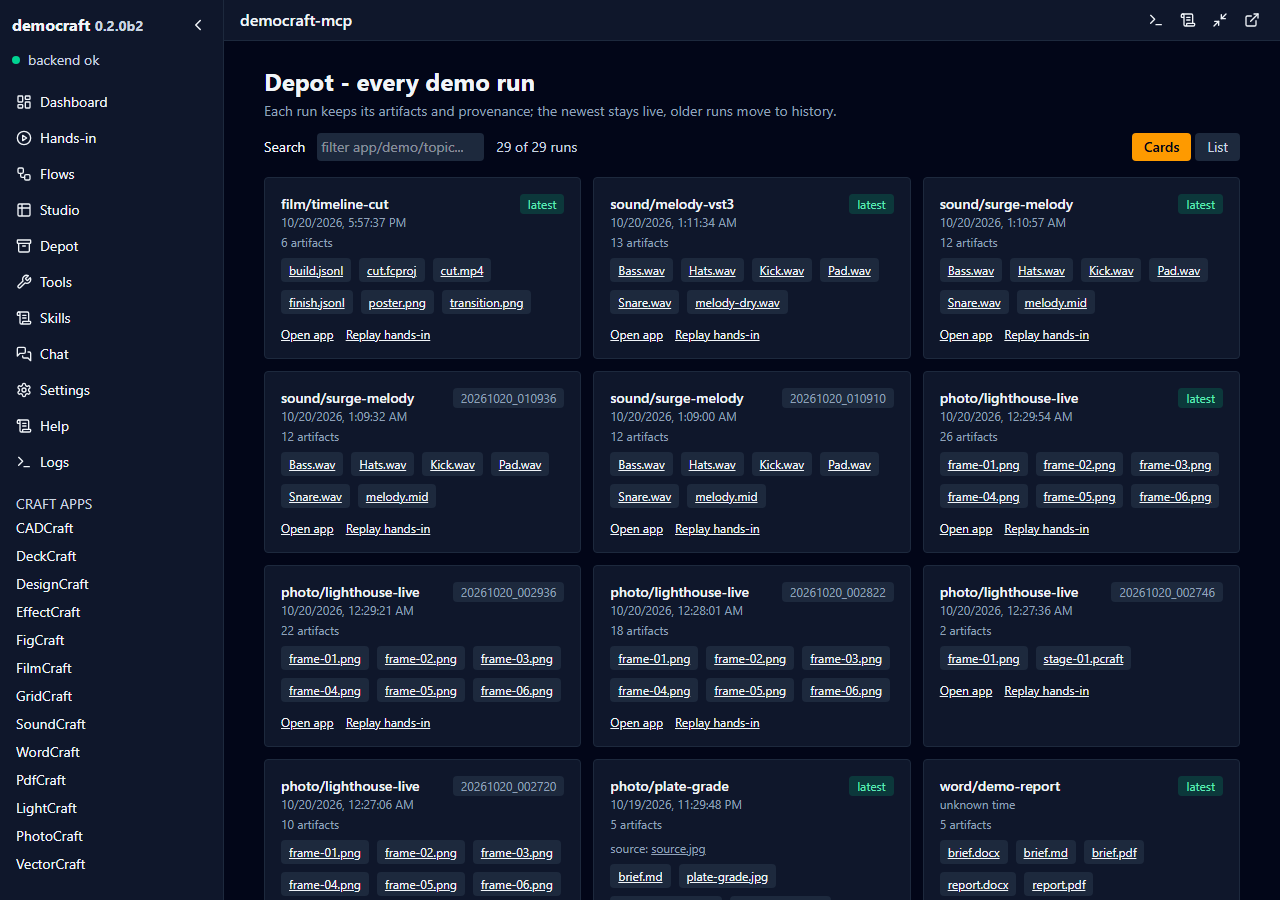
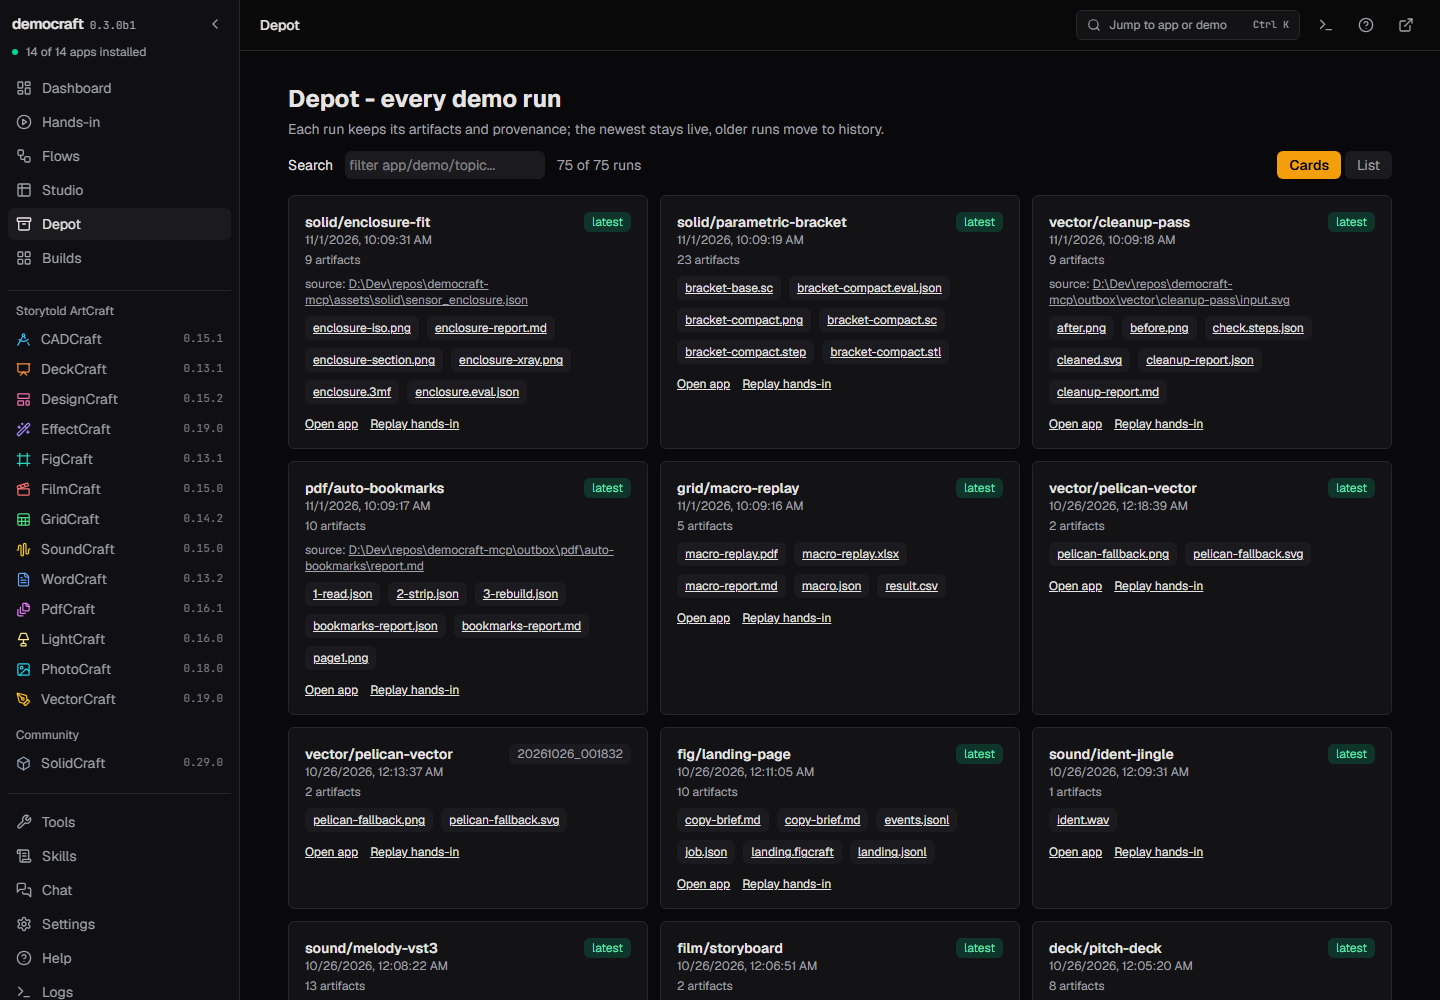
docs: handover for 0.3.0b1 and regenerated webapp screenshots
Claude-Session: https://claude.ai/code/session_018dTunojiqGZNZrvfoMExK2

Changed region(s): [[0.125, 0.0, 1.0, 1.0], [0.0, 0.0, 0.125, 1.0], [0.875, 0.1244, 0.9688, 0.2489]]

diff --git a/HANDOVER.md b/HANDOVER.md
@@ -1,89 +1,66 @@
-# HANDOVER — democraft-mcp
+# HANDOVER - democraft-mcp
 
-**As of:** 2026-10-21. **Version:** 0.2.0b2.
-**Assess score:** 91 self-assessed; cold rescore still preferred.
+**As of:** 2026-11-01. **Version:** 0.3.0b1.
+**Assess score:** not re-scored this session; the 91 from 2026-10-21 was self-assessed.
 
 ## What this repo is
 
-The demo fleet for the ArtCraft family: one page per Craft app, every demo a
-real headless `<app>-cli.exe` run plus an optional local-LLM step. Thirteen
-apps, one registry (`src/democraft_mcp/crafts.py`), one portmanteau MCP tool
-(`craft`, 8 ops), one webapp. 32 demos, 6 of them streamable ("hands-in"),
-12 multi-app flows.
+The demo bench for the Craft family: one page per app, every demo a real headless
+`<app>-cli.exe` run plus an optional local-LLM step. 14 apps: 13 Storytold ArtCraft (`core`)
+plus SolidCraft by Tangency Labs (`community`, first of more to come). One registry
+(`src/democraft_mcp/crafts.py`), demos since 2026-11-01 in `recipes.py`, one portmanteau MCP
+tool (`craft`), one webapp. 30 demos (8 streamable) plus a capability map per app, 12 flows.
 
-Ports: **11245** frontend, **11246** backend (registered in `WEBAPP_PORTS.md`).
-Gates: `just ci` (ruff check + format, pytest with coverage,
-tsc, biome, vite build). Last measured: 73 tests, 61.67% coverage, README
-structure check strict pass.
+Ports: **11245** frontend, **11246** backend. Gates: `just ci`.
 
-## Last concrete action
+## Last concrete action (2026-11-01)
 
-2026-10-21:
-1. **ArtCraft October 21 release drift resolved (wave 1 & 2)**: All 13 installed binaries
-   bumped in `C:\Program Files` across two waves (CADCraft 0.10.0, DeckCraft 0.9.0, DesignCraft 0.11.0,
-   EffectCraft 0.14.0, FigCraft 0.9.0, FilmCraft 0.10.0, GridCraft 0.10.0, LightCraft 0.11.0,
-   PdfCraft 0.10.1, PhotoCraft 0.12.0, SoundCraft 0.11.0, VectorCraft 0.14.0, WordCraft 0.9.0).
-   Tripwire drift tested, accepted with `force=True`, and baseline state locked in `data/craft_compat.json`.
-2. **Upstream tracking synchronization**: all 14 clones in `_upstream/` fetched and
-   fast-forwarded to `upstream/main`.
-3. **Docs update**: `docs/WRAPPEE.md` and all 13 per-app pages in `docs/apps/` updated with verified
-   latest builds, documented new verbs, and patched gaps.
-
-2026-10-20, two pieces of work:
-
-1. **FilmCraft NLE demo** (`film/timeline-cut`): real cut, cross dissolve,
-   H.264 export, two rendered frames; the two film flows now point at it.
-   Fixed while verifying: the dissolve was applied inside the export process
-   without `--save`, so `cut.fcproj` and the later `transition.png` had no
-   transition. It is now a real `exec --save` step, with regression test
-   `test_film_timeline_cut_persists_transition`.
-2. **Docs pass**: README rebuilt to the fleet wrapper/webapp structure,
-   INSTALL rewritten with Options A/A2/B/C/D, new `docs/WRAPPEE.md`,
-   `docs/apps/` (13 per-app pages + index), `docs/screenshots/README.md`,
-   real Playwright captures (dashboard, hands-in, depot), 16 GitHub topics and
-   a new repo description. `effect-still.png` (614 KB) replaced by a 63 KB
-   JPEG. `docs/TOOLS.md` corrected from 14 to 13 apps.
+1. **Oct 31 builds.** All 13 core CLIs bumped; drift additive only (104 verbs). Every existing
+   demo re-run green on the new builds, baselines accepted for all 14 apps
+   (`data/craft_compat.json`, gitignored).
+2. **`_upstream/` refreshed** to 2026-11-01 for the 15 Craft clones. Most trees had local
+   modifications (EffectCraft 30 files, LightCraft 42); each was stashed as
+   `democraft-refresh-2026-11-01 local changes before ff` before fast-forwarding. Inspect with
+   `git -C D:\Dev\repos\_upstream\<app> stash show -p stash@{0}`. Non-Craft clones (buzz, immich,
+   gods-eye-view, photoprism, Strata, VoiceStudio, token-factory-cookbook) were fetched only.
+3. **SolidCraft** registered (`family="community"`, `maker`); `/api/crafts` carries both.
+4. **Recipes** (`recipes.py`, dispatched in `run_demo` before the legacy chain via
+   `RECIPES[(app, demo)]` and a `RunCtx` with `do_with(exe, argv)` for cross-app steps):
+   grid/macro-replay, pdf/auto-bookmarks, vector/cleanup-pass, solid/parametric-bracket,
+   solid/enclosure-fit. Each writes a `*-report.md` with measured numbers.
+5. **Webapp redesign**: contact-sheet dashboard (`GET /api/gallery`), family grouping, inline
+   last-run outputs, Ctrl+K palette, bench tokens in `index.css`, `lib/appMeta.ts` (hue/icon per
+   app), `components/ContactSheet.tsx`, `components/ArtifactGrid.tsx`. Companion button removed
+   (it opened nothing). Biome now parses Tailwind directives (`biome.json`).
 
 ## Next step
 
-Phase 1 of `docs/PLAN.md`: harden the adapter contract. The demos work; the
-adapter is still a registry of special cases. Extract a typed adapter
-(detect / version / commands / run / script / error taxonomy) and make each app
-declare capability, not code.
+1. EffectCraft camera track to Blender: chain works, solve does not (see `docs/apps/effect.md`).
+   Retry with filmed footage or a textured SolidCraft render (appearances exist).
+2. Phase 1 of `docs/PLAN.md` continues: port legacy branches of `run_demo` into `recipes.py`
+   one app at a time; the recipe pattern is the typed-adapter seam.
+3. Regenerate README screenshots after UI changes: start the app, then
+   `node web_sota/scripts/shots.mjs docs/screenshots` (Node, not Bun: Playwright hangs under
+   Bun on Windows).
 
 ## Blockers / open items
 
-- **Streaming chat endpoint** (`POST /api/chat/stream`) — MEDIUM, open.
-- **Vendored MCPB pack script** — MEDIUM, open (manifest relocation + 3-4-100
-  prompt parity before the shim migration).
-- **`needs_account` is taxonomy only** — no engine currently gates a feature
-  through it; `crafts.py` says so in its header. Do not advertise it as live.
-- **Dashboard KPI "demo runs" counts only runs with a `started` timestamp**
-  (5 today) while `/api/runs` lists 29; older folders predate manifests. If the
-  KPI is meant to match the Depot, decide which number is authoritative.
-- **Project page** `mcp-central-docs/projects/democraft-mcp/` does not exist
-  yet (project-page standard).
-- **Cold-context rescore** — recommended; the 91 is self-assessed.
+- **Directory standard**: frontend dir is `web_sota/`, fleet standard says `webapp/`. Not
+  renamed this session (touches start scripts, justfile, CI).
+- **Goliath has hundreds of stale `python.exe` processes** dating from Oct 30-31 (likely leaked
+  MCP server instances). Not touched; worth a look outside this repo.
+- **Streaming chat endpoint** and **vendored MCPB pack script** - still open from 2026-10-21.
+- **Dashboard KPI "demo runs"** vs `/api/runs` count - still undecided.
 
 ## Deliberately not done
 
-- **Thirteen repos.** No `designcraft-mcp`, `photocraft-mcp`, etc. One hub,
-  many adapters.
-- **Fake artifacts.** No placeholder renders, no "demo mode" that draws a
-  rectangle and calls it a photo.
-- **Generative verbs.** The CLIs are editors, not generators. The AI step
-  drafts parameters or prose, not pixels.
-- **Auto-install.** Wrappees are the product; `docs/ONBOARDING.md` instructs,
-  the demo does not silently download paid software.
-- **NSIS installer.** The webapp is source-run (`start.bat`); README and
-  INSTALL say so instead of implying a one-click app.
-- **Cloud LLM.** `ai_step` posts to Ollama's `/api/generate`; an
-  OpenAI-compatible provider is not wired in. INSTALL says so.
+- No AI in SolidCraft demos: a model guessing board dimensions would be fabrication.
+- Board presets limited to symmetric hole patterns (the script has one `hole_inset`).
+- No light theme (fleet standard: dark permanent).
 
 ## How to pick it up
 
-1. `just ci` — confirm the gates are still green.
-2. `docs/PLAN.md` — phases and acceptance criteria; start at Phase 1.
-3. `src/democraft_mcp/crafts.py` — the registry is the truth for apps and demos.
-4. `web_sota/src` — one page per app, generated from the same registry.
-5. `outbox/<app>/<demo>/` — every artifact, with `run.json` and engine output.
+1. `just ci`.
+2. `src/democraft_mcp/recipes.py` for the new demo pattern; `crafts.py` for the registry.
+3. `web_sota/src/lib/appMeta.ts` when adding an app (hue + icon), `HERO` in `crafts.py` for facts.
+4. `outbox/<app>/<demo>/` - every artifact with `run.json` and the report.
